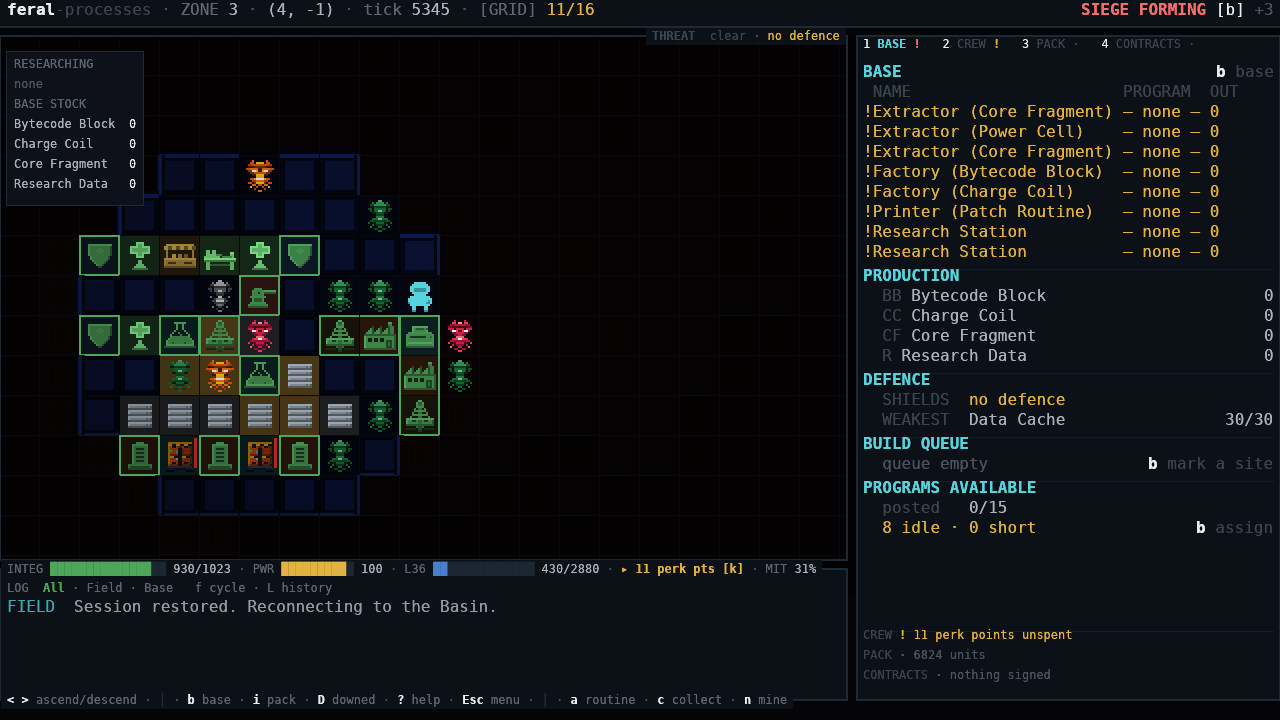
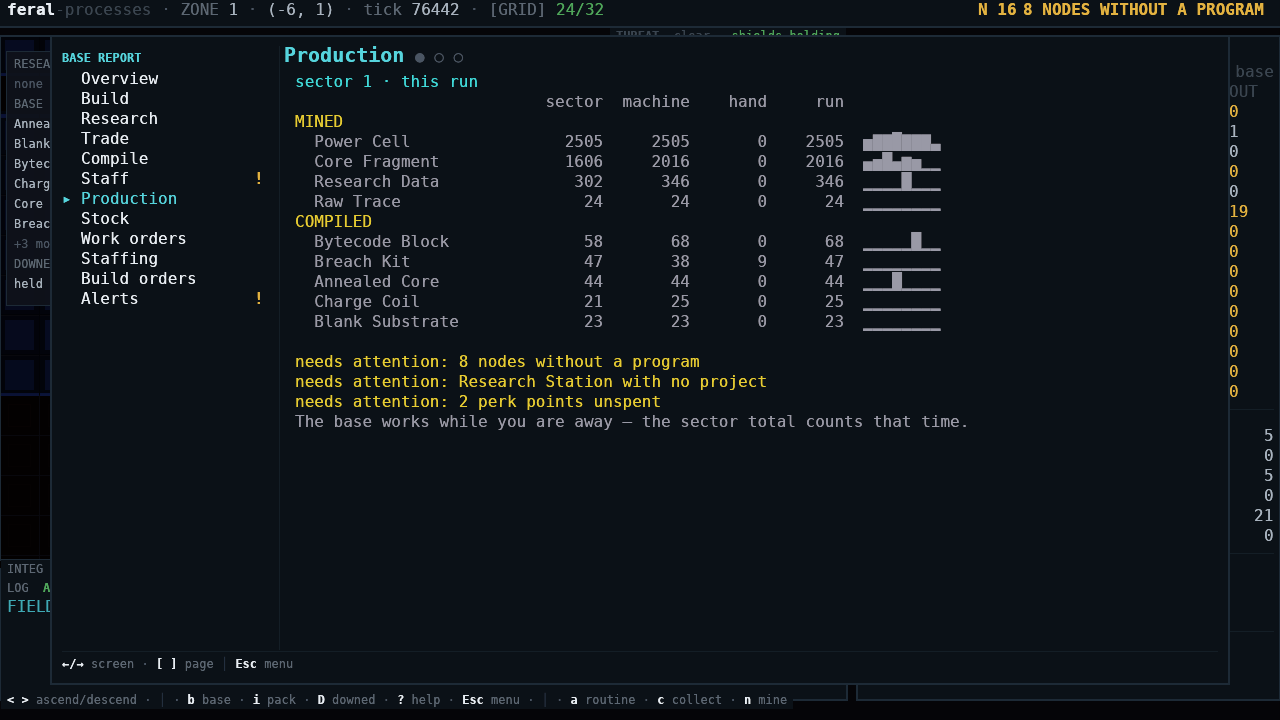
Hero and base shots from the fred template
The hero was a stale `siege` capture with placeholder tiles; it is now fred's
base on the map. base.png moves to the Production page so the two differ.

Claude-Session: https://claude.ai/code/session_01Q19tGwigpM1gWFDEAfKCoD

diff --git a/index.html b/index.html
@@ -364,8 +364,8 @@ footer{border-top:1px solid var(--line-soft);padding:64px 0 48px;background:#090
     </div>
 
     <figure class="shot shot-hero">
-      <img src="img/hero.png" alt="The surface map: the player next to their base, with hostile programs inside the walls and the base panel showing a siege warning" width="1280" height="720">
-      <figcaption>A siege starting: wild programs have got inside the base.</figcaption>
+      <img src="img/hero.png" alt="A base inside its walls: rows of extractors and factories, programs working among them, and the base panel listing each machine and who runs it" width="1280" height="720">
+      <figcaption>A base, with the programs that run its machines.</figcaption>
     </figure>
   </div>
 </header>
@@ -552,8 +552,8 @@ footer{border-top:1px solid var(--line-soft);padding:64px 0 48px;background:#090
 
     <div class="split" style="align-items:start">
       <figure class="shot">
-        <img src="img/base.png" alt="A base inside its walls, with extractors and factories placed in rows and the base panel listing each machine, the program that runs it and what it has made" width="1280" height="720" loading="lazy">
-        <figcaption>A working base, with Extractors, Factories, a Research Station and a Holding Cell.</figcaption>
+        <img src="img/base.png" alt="The Production page of the base report: how much of each material the base has mined and compiled this sector, by machine and by hand, with a bar for each, and the things that need attention below" width="1280" height="720" loading="lazy">
+        <figcaption>The Production page: what the base has mined and compiled, and what needs attention.</figcaption>
       </figure>
       <figure class="shot">
         <img src="img/research.png" alt="The research chart: boxes for each research project with lines between them, and the selected project's cost and unlock shown beside it" width="1280" height="720" loading="lazy">

diff --git a/README.md b/README.md
@@ -23,8 +23,8 @@ cargo run -- --template <name> --keys "<keys>" --screenshot out.png
 
 | image | how it was taken |
 |---|---|
-| `hero.png` | `--template siege` |
-| `base.png` | `--template fred` |
+| `hero.png` | `--template fred` |
+| `base.png` | `--template fred --keys "b Down Down Down Down Down Down Enter"` (base report, Production page) |
 | `staff.png` | `--template fred --keys "b Down Down Down Down Down Down Down Down Down Enter"` (base report, Staffing page) |
 | `research.png` | `--template fred --keys "b Down Down Enter Enter"` (base report, Research page, the chart) |
 | `social.png` | `--template fred --keys "i Down Down Down Down Enter M Tab"` (Companions page, manifest Social face) |
